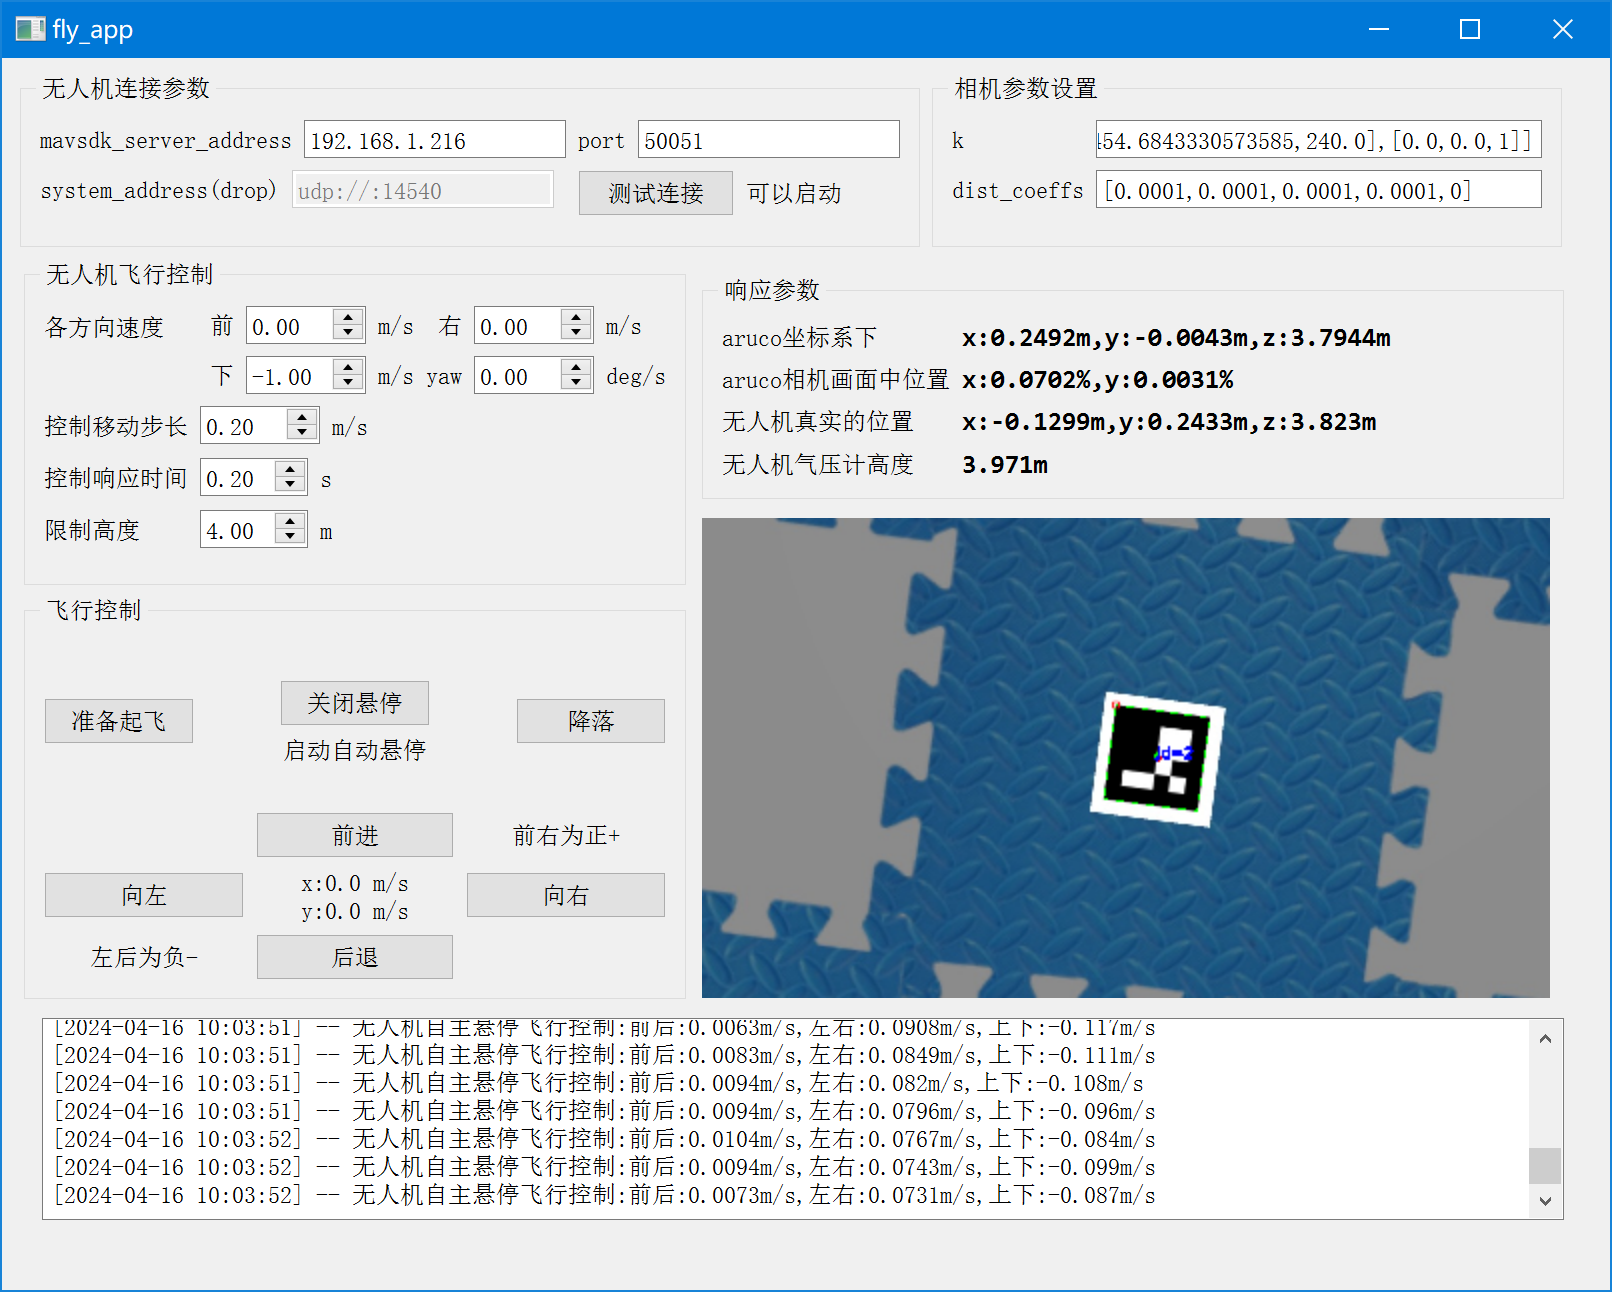
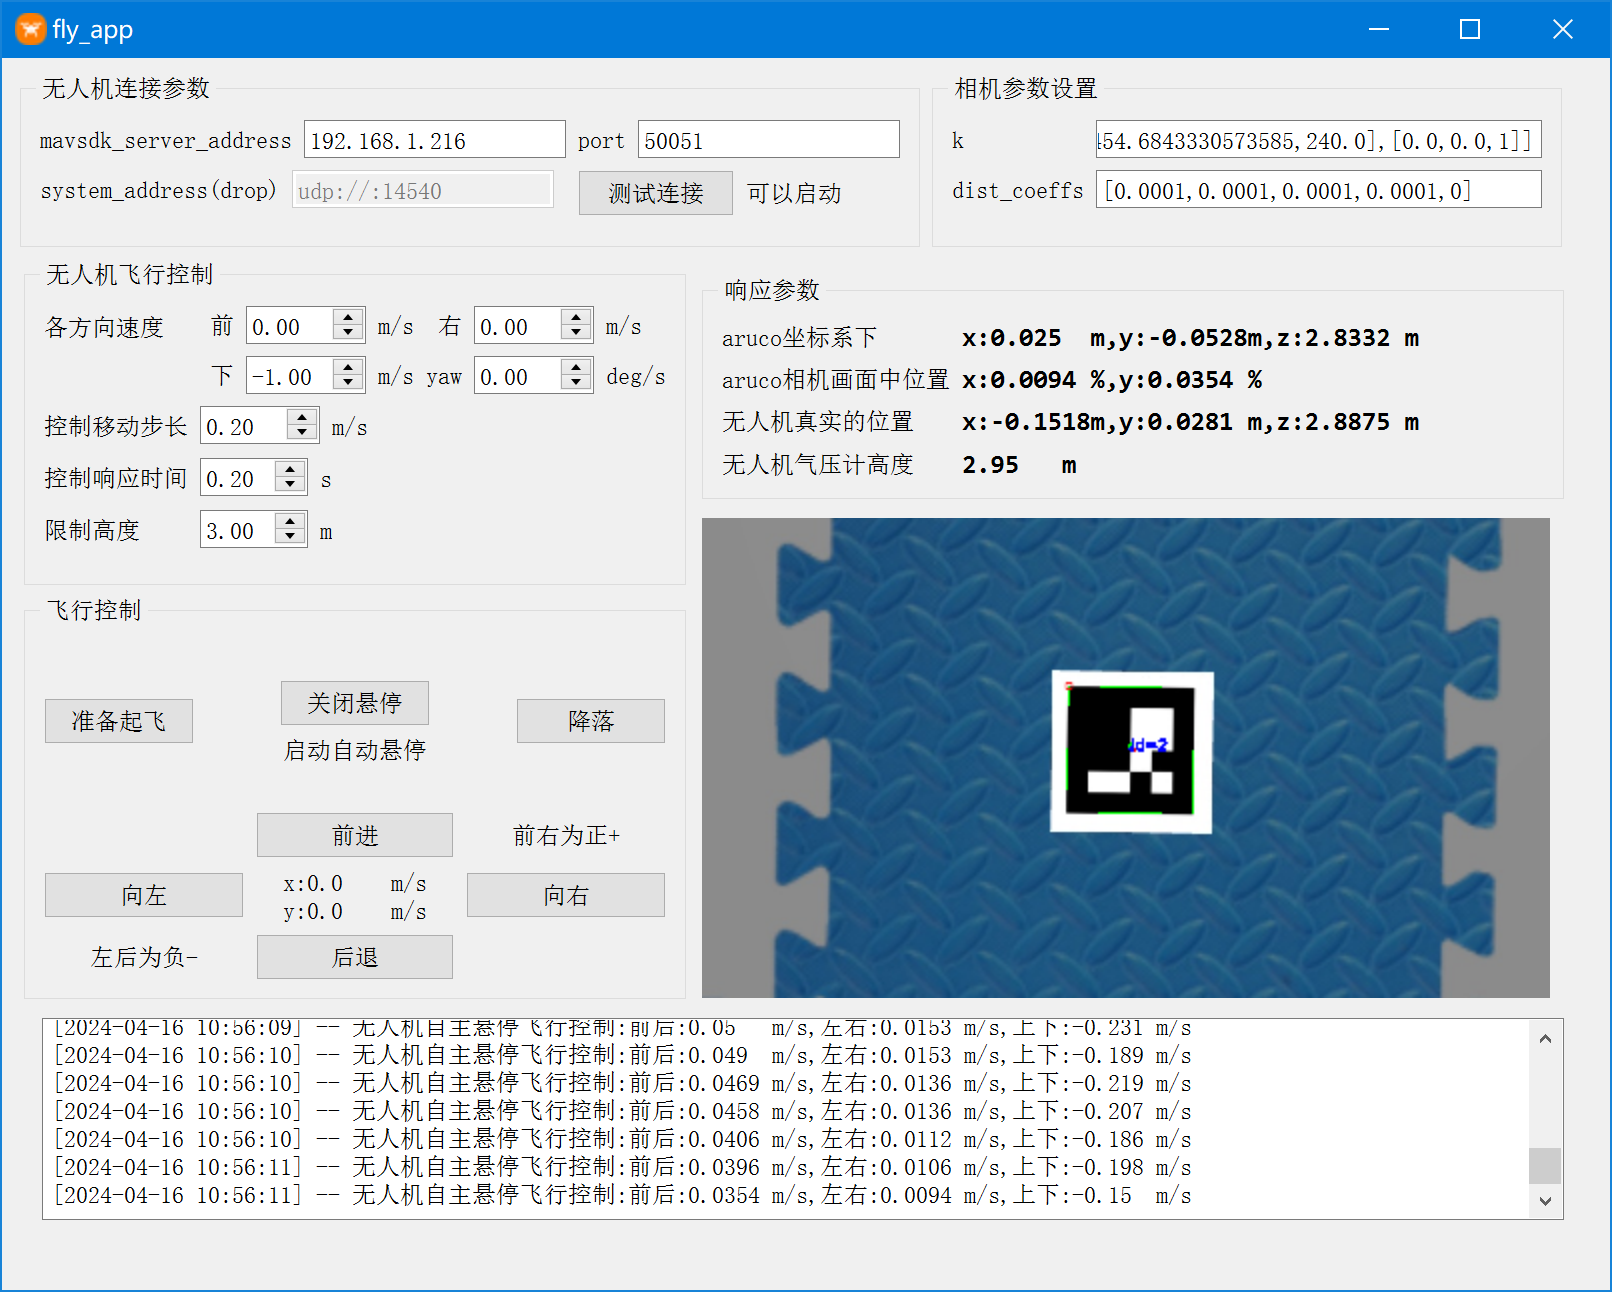
修改字符串显示格式

diff --git a/fly/auto_fly/fly_app.py b/fly/auto_fly/fly_app.py
@@ -147,7 +147,7 @@ class main_win(QMainWindow, fly_window):
         self.fresh_data_timer = QTimer(self)
         # 设置定时器每100ms触发一次
         self.fresh_data_timer.setInterval(100)
-        # 将定时器的timeout信号连接到自定义的函数，即每100ms会调用一次self.my_func函数
+        # 将定时器的timeout信号连接到自定义的函数，即每100ms会调用一次
         self.fresh_data_timer.timeout.connect(self.fresh_data)
         # 启动定时器
         self.fresh_data_timer.start()
@@ -277,10 +277,10 @@ class main_win(QMainWindow, fly_window):
                           float(app_data["drone_down_m_s"]), float(app_data["drone_yawspeed_deg_s"])]
                 await drone1.offboard.set_velocity_body(VelocityBodyYawspeed(*v_list))
                 if app_data["drone_is_auto_search_aruco"]:
-                    self.print_log("无人机自主悬停飞行控制:前后:{: <4}m/s,左右:{: <4}m/s,上下:{: <4}m/s".format(
+                    self.print_log("无人机自主悬停飞行控制:前后:{: <7}m/s,左右:{: <7}m/s,上下:{: <7}m/s".format(
                         *map(lambda x: round(x, 4), v_list)))
                 else:
-                    self.print_log("当前飞行控制:前后:{: <4}m/s,左右:{: <4}m/s,上下:{: <4}m/s".format(
+                    self.print_log("当前飞行控制:前后:{: <7}m/s,左右:{: <7}m/s,上下:{: <7}m/s".format(
                         *map(lambda x: round(x, 4), v_list)))
         except OffboardError as e:
             self.print_log(f"启动非车载模式失败，错误代码为: {e._result.result}")
@@ -379,16 +379,16 @@ class main_win(QMainWindow, fly_window):
         # 将全局变量中的值写到gui中
         # 目前使用一个二维码
         # TODO 如果有多个，可以进行计算融合
-        self.drone_xyz_of_aruco_label.setText('x:{: <4}m,y:{: <4}m,z:{: <4}m'.format(
+        self.drone_xyz_of_aruco_label.setText('x:{: <7}m,y:{: <7}m,z:{: <7}m'.format(
             *map(lambda x: round(float(x), 4), app_data["drone_xyz_of_aruco"][0])))
         # 在相机中，二维码的位置，目前使用第一个二维码
-        self.aruco_in_camera_label.setText('x:{: <4}%,y:{: <4}%'.format(
+        self.aruco_in_camera_label.setText('x:{: <7}%,y:{: <7}%'.format(
             *map(lambda x: round(float(x), 4), app_data["aruco_in_camera"][0])))
-        self.drone_real_position_label.setText('x:{: <4}m,y:{: <4}m,z:{: <4}m'.format(
+        self.drone_real_position_label.setText('x:{: <7}m,y:{: <7}m,z:{: <7}m'.format(
             *map(lambda x: round(float(x), 4), app_data["drone_real_position"])))
-        self.drone_altitude_label.setText('{: <4}m'.format(float(app_data["drone_altitude"]).__round__(3)))
+        self.drone_altitude_label.setText('{: <7}m'.format(float(app_data["drone_altitude"]).__round__(3)))
         self.test_connect_status_label.setText(app_data["test_connect_status"])
-        self.drone_control_xy_label.setText('x:{: <4}m/s\ny:{: <4}m/s'.format(float(app_data["drone_forward_m_s"]),
+        self.drone_control_xy_label.setText('x:{: <7}m/s\ny:{: <7}m/s'.format(float(app_data["drone_forward_m_s"]),
                                                                               float(app_data["drone_right_m_s"])))
 
 
